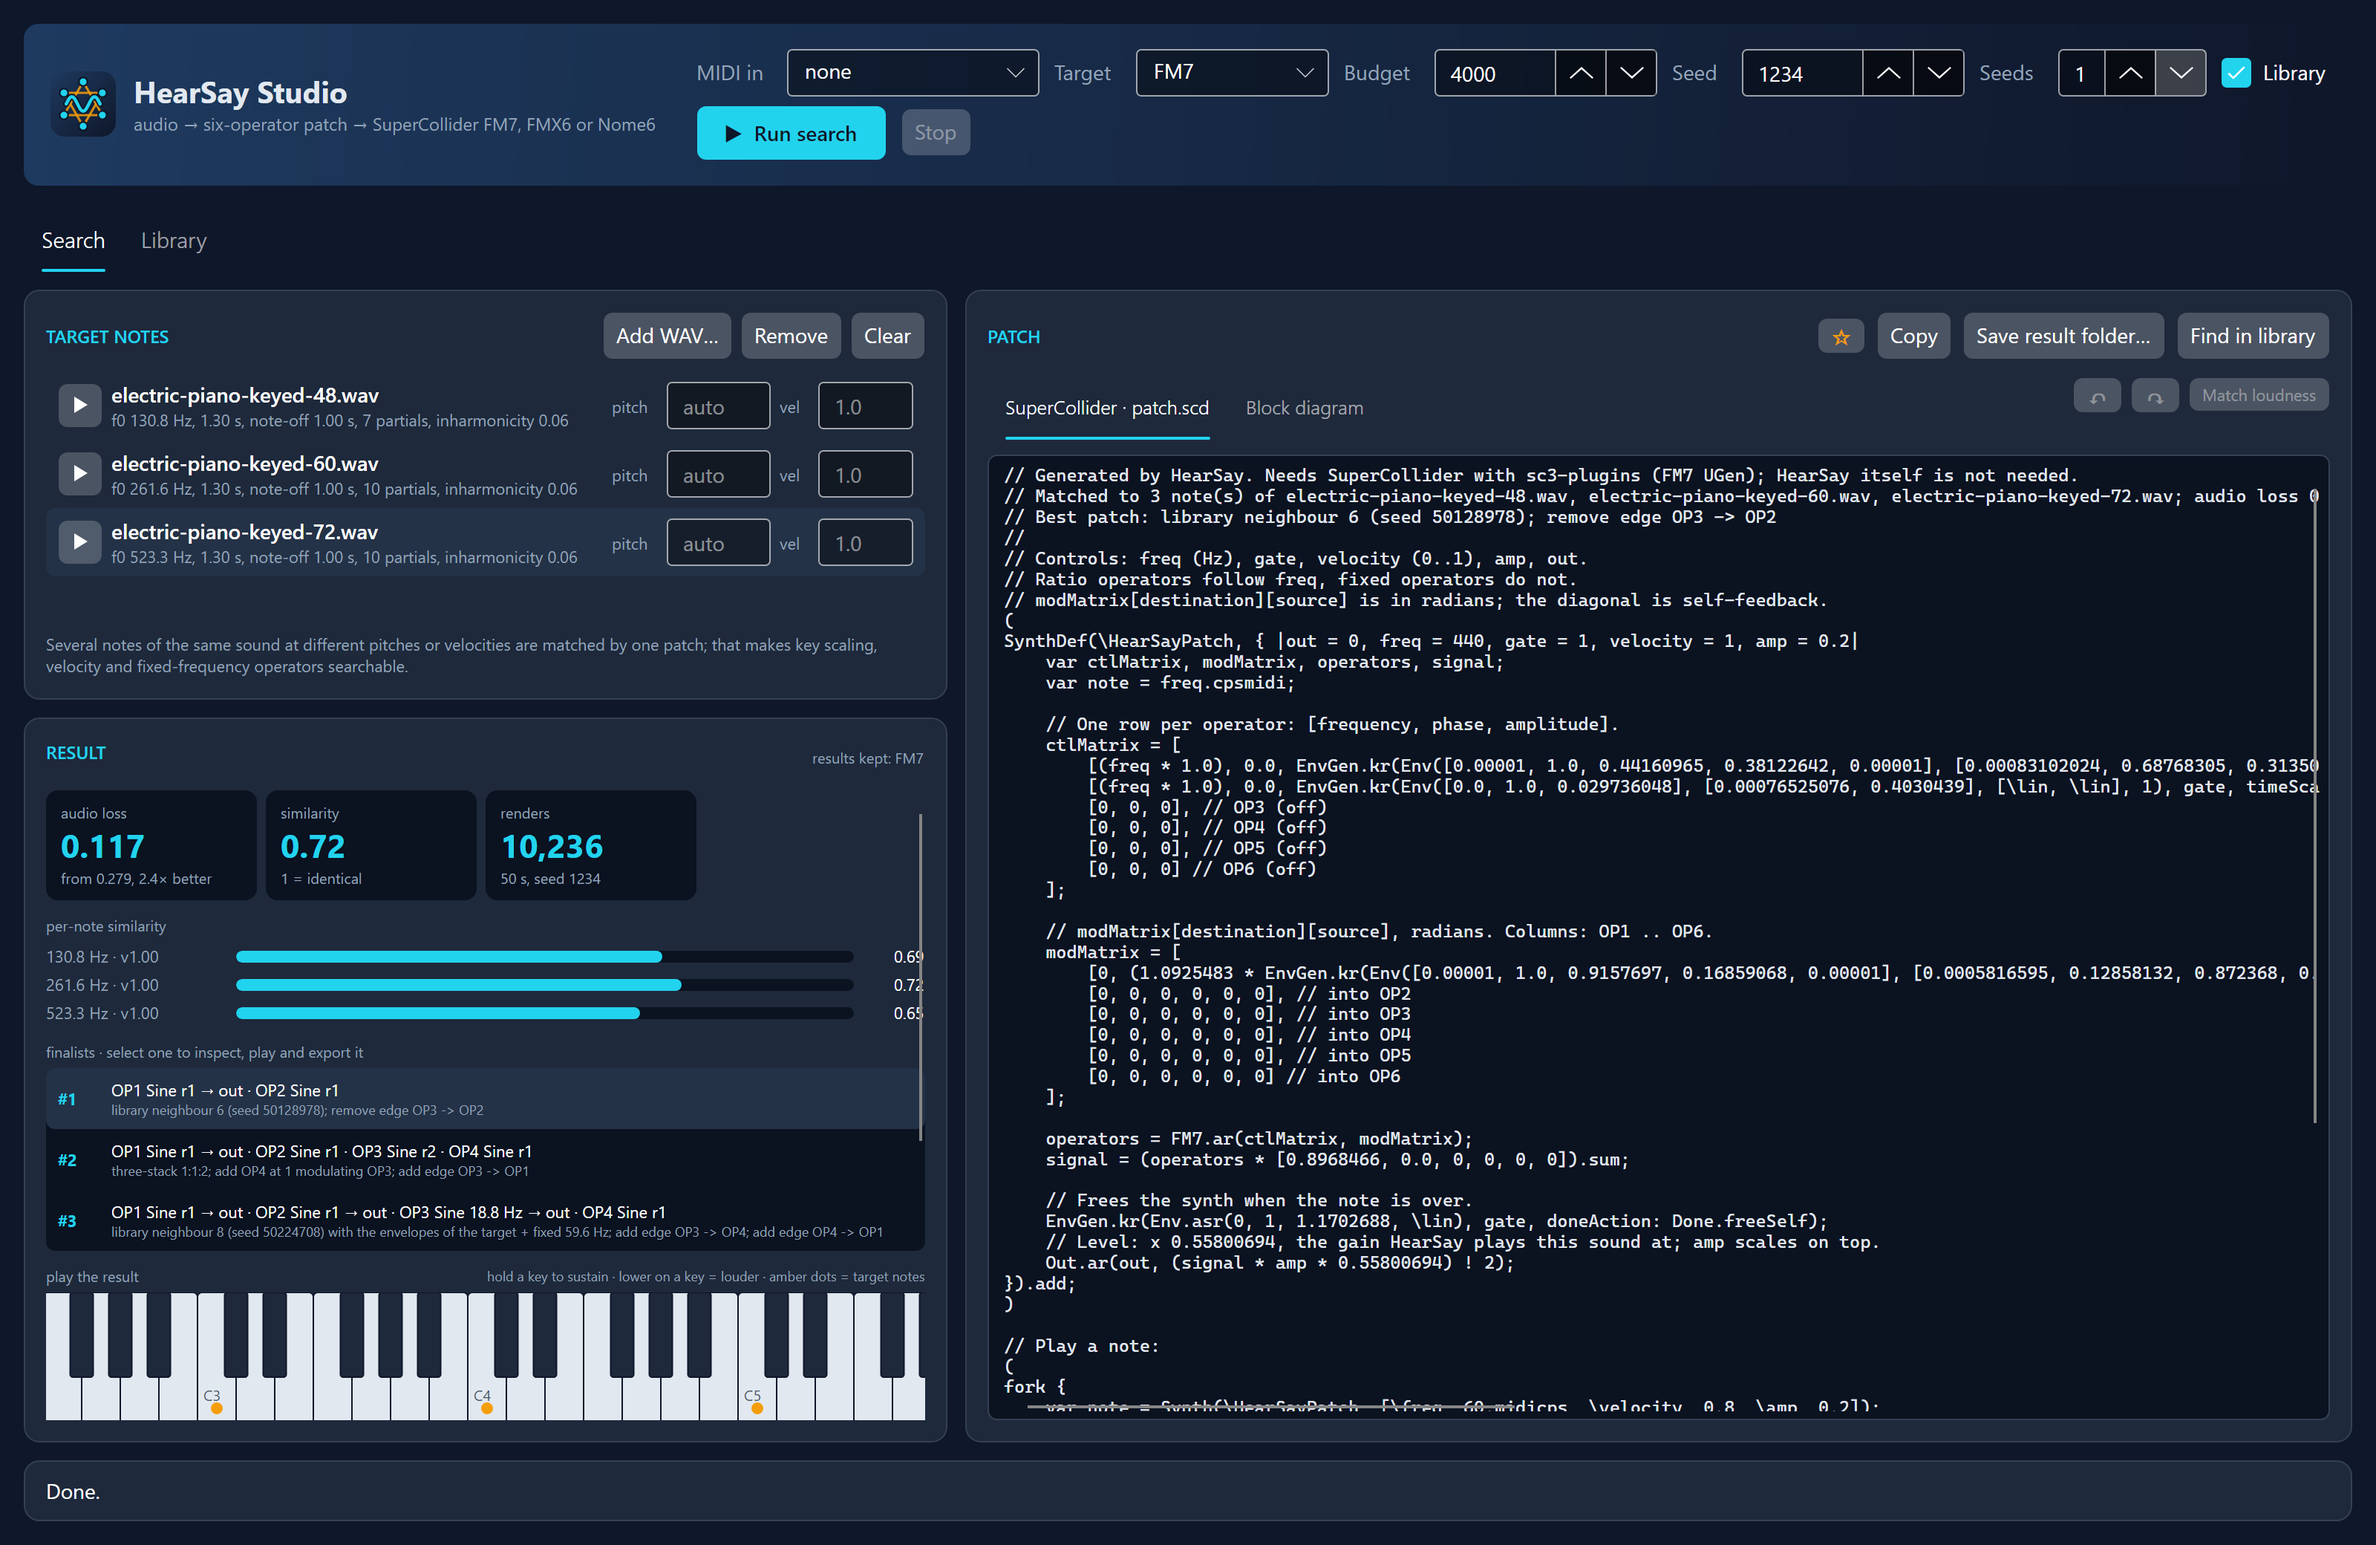
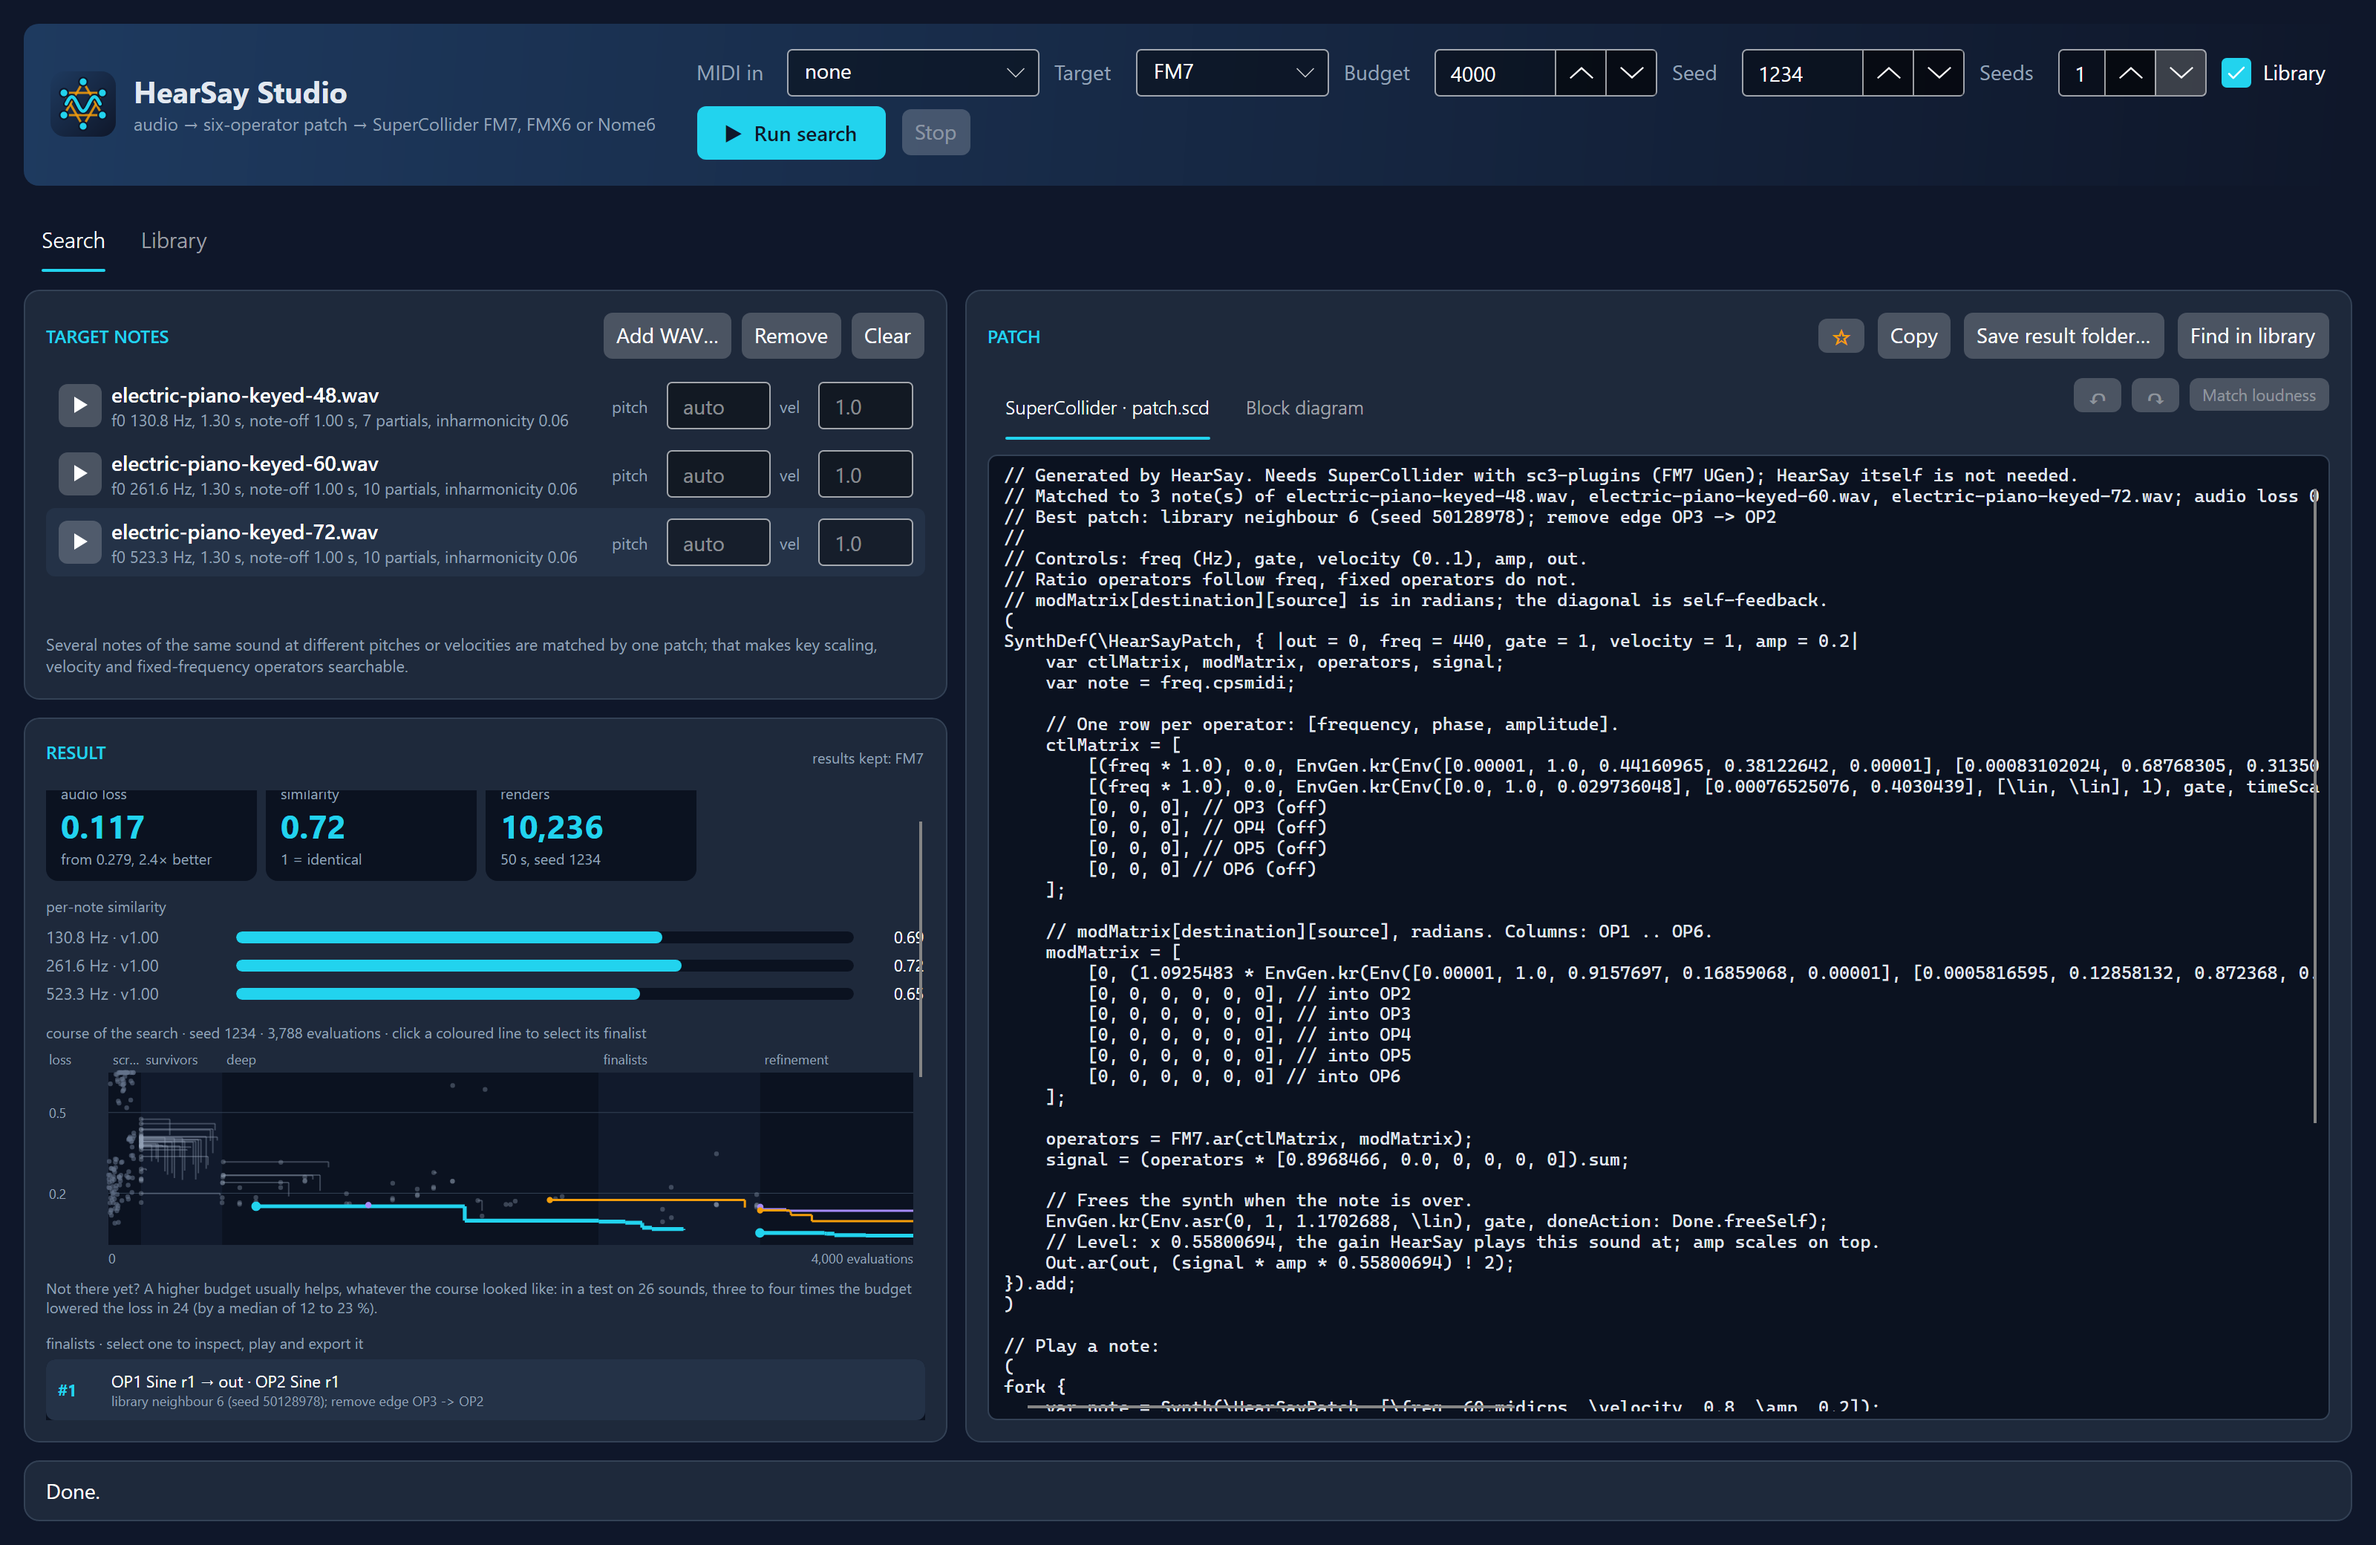
Docs and Studio: what a higher budget brings, as measured
The expert manual's rule (raise the budget when the loss still falls in
the last stages, else try another seed) did not hold: on 26 sounds, three
to four times the budget lowered the audio loss in 24, by a median of 23 %
from 3000 to 12 000 and 12 % from 20 000 to 60 000, and neither the tail
of the course nor a plateau predicted which searches gained (at 20 000 the
searches that had stood still gained the most). The manual says so now,
and describes the course of the search in search-summary.json.

The Studio shows the same finding as a note under the chart of a finished
search instead of a warning that would guess. The Studio manual describes
the chart, with new screenshots (one taken halfway through a search).

Changed region(s): [[0.0, 0.5, 0.4062, 0.9375]]

diff --git a/src/HearSay.Studio/MainViewModel.cs b/src/HearSay.Studio/MainViewModel.cs
@@ -786,8 +786,20 @@ public sealed class MainViewModel : INotifyPropertyChanged, IDisposable
     public IReadOnlyList<SearchChartFinalist>? SearchTraceFinalists
     {
         get => _searchTraceFinalists;
-        private set => Set(ref _searchTraceFinalists, value);
+        private set
+        {
+            if (Set(ref _searchTraceFinalists, value))
+            {
+                OnPropertyChanged(nameof(ShowsBudgetNote));
+            }
+        }
     }
+
+    /// <summary>
+    /// True under the chart of a finished search: the note on what a higher budget brings. The course of a search does
+    /// not tell which searches would gain (expert manual, section 5), so the note is the same for every search.
+    /// </summary>
+    public bool ShowsBudgetNote => _searchTraceFinalists is not null;
 
     /// <summary>What the chart of <see cref="SearchTrace"/> shows, above it.</summary>
     public string SearchTraceTitle

diff --git a/docs/expert-manual.md b/docs/expert-manual.md
@@ -229,9 +229,14 @@ never the result.
 best one, with the finalists of every seed as alternatives. Two seeds at budget N usually beat one seed at 2N, because
 the second seed starts from other hypotheses; beyond four seeds the gain flattens.
 
-**When to raise the budget instead:** when the search summary shows the loss still falling in the last stages
-(deep optimization and finalists improve markedly on the survivors). When the loss stops early and the finalists all
-have the same structure, another seed or another profile helps more than budget.
+**When to raise the budget.** As long as the sound is not right yet, a higher budget is usually worth it. A
+measurement on 26 sounds (the FM7 demo sounds and FMX6 sung vowels, seed 1) gave three to four times the budget a lower
+audio loss in 24 of them: by a median of 23 % from 3000 to 12 000 evaluations, and by 12 % from 20 000 to 60 000 (8
+sounds). The course of the search does not tell in advance which searches gain. Neither a loss still falling at the
+end nor a loss that stood still predicted the gain: a larger budget gives every stage more, so it also screens more
+hypotheses and keeps more structures, and a search that stood still on one structure often found a better one. At
+20 000 the searches that had stood still for half the run gained the most (9 to 59 %, the others 3 to 15 %). Whether another seed would
+have done better than the same evaluations as a higher budget was not measured.
 
 ## 6. Reading a result
 
@@ -251,6 +256,9 @@ Every result reports the same numbers, in Studio, on the console and in `search-
 - **Origin** is the hypothesis and the mutations that produced the patch, with the seed when several were run:
   `seed 1235: stack 1:3 with modulator feedback; add OP3 at 3.5 modulating OP1`. It tells you which prior found the
   structure and how far it travelled from it.
+- **Improvements** and **trace** are the course of the search: every new best loss per evaluation level with the
+  evaluation that found it, and every hypothesis screened and every improvement of every basin (the chart of the Studio
+  draws the trace).
 - **Stages** list, per stage, the evaluations spent and the best loss at the end, with the evaluation level: coarse
   (short render, few features), normal, detailed (full objective). A patch that looked great at the coarse level and
   fell back at the normal level is a typical screening artefact; the survivors stage corrects it.
@@ -273,7 +281,7 @@ spectrum and envelope, and the second-best is sometimes the more musical one.
 | `analysis.json` | analysis of the reference note (fundamental, partials, envelope, issues) |
 | `comparison.json` | HearSay's full diagnosis of preview against target: scores, differences, hints |
 | `preview-note2-262Hz.wav`, `analysis-note2-262Hz.json`, `comparison-note2-262Hz.json` | the same per note of a target set |
-| `search-summary.json` | reproducibility data, stages, basins, and all finalists with their losses |
+| `search-summary.json` | reproducibility data, stages, basins, the course of the search, and all finalists with their losses |
 | `alternatives/01-patch.json`, `01-preview.wav`, `01-patch.scd`, `02-…` | the other finalists, best first, each with its own SynthDef name (`HearSayAlternative1`, …) |
 
 `comparison.json` is the file to read when a match is close but not right: it names the frequency bands and time

diff --git a/docs/studio-manual.md b/docs/studio-manual.md
@@ -92,8 +92,9 @@ doing, and why an edit or an action was refused.
    [section 4](expert-manual.md#4-choosing-the-synthesis-target)).
 5. Set the **Budget** and the **Seeds**. 4000 is quick and often enough to find the structure; 20000 is a thorough
    search. Two seeds at a budget usually beat one seed at twice the budget.
-6. **Run search.** The progress bar shows the run within the seeds and the stage within the run. **Stop** ends the
-   search early with the best patch found so far.
+6. **Run search.** The progress bar shows the run within the seeds and the stage within the run, and the Result card
+   draws the course of the search as it goes (section 4). **Stop** ends the search early with the best patch found so
+   far.
 
 **Every target keeps its last result** for the current target notes. Search under FM7, switch the Target selector to
 FMX6, search again, and switch back and forth to compare the two by ear on the keyboard, in the block diagram and in
@@ -108,6 +109,11 @@ that was stopped early is always searched again.
 
 ## 4. Reading the result
 
+![A search halfway: the course of the search drawn as it runs](images/studio/search-running.png)
+
+*A search halfway: every structure the search follows is a line that falls as its loss improves; the best so far is
+bright.*
+
 The **Result** card shows the selected finalist:
 
 - **Three tiles**: its *audio loss* (0 is identical; with the loss the search started from, and how much better it got),
@@ -115,6 +121,16 @@ The **Result** card shows the selected finalist:
   numbers in [section 6](expert-manual.md#6-reading-a-result) and
   [section 13](expert-manual.md#13-the-objective-and-the-loss-numbers).
 - **Per-note similarity**: a bar per target note.
+- **Course of the search**: the loss (on a logarithmic scale) against the evaluations used, drawn while the search
+  runs and kept with the result. Bands mark the stages: *screening* tries many structures briefly (each a grey dot),
+  *survivors* and *deep* optimize the most promising ones and their mutations, *finalists* the best few, and
+  *refinement* polishes them more precisely. Every structure is a line that steps down where its loss improved; a
+  line breaks where the stage judges the loss differently (screening roughly, refinement in more detail). While the
+  search runs, the best line so far is bright; afterwards the finalists have the colours of their place in the list,
+  the selected one thickest, and a click on a line selects its finalist (the pointer on it names it). Under the chart a
+  note says what a higher budget brings: in a test on 26 sounds, three to four times the budget lowered the loss in 24,
+  whether the loss was still falling at the end or had stood still (expert manual,
+  [section 5](expert-manual.md#5-budget-seeds-and-time)).
 - **Finalists**: the best patches of the search, with their rank, the operators in use and where they came from. Select
   one to inspect it: the tiles, the bars, the patch card and the keyboard follow the selection. The search compares
   only the best patch with the targets; another finalist is compared the first time it is selected (its similarity
